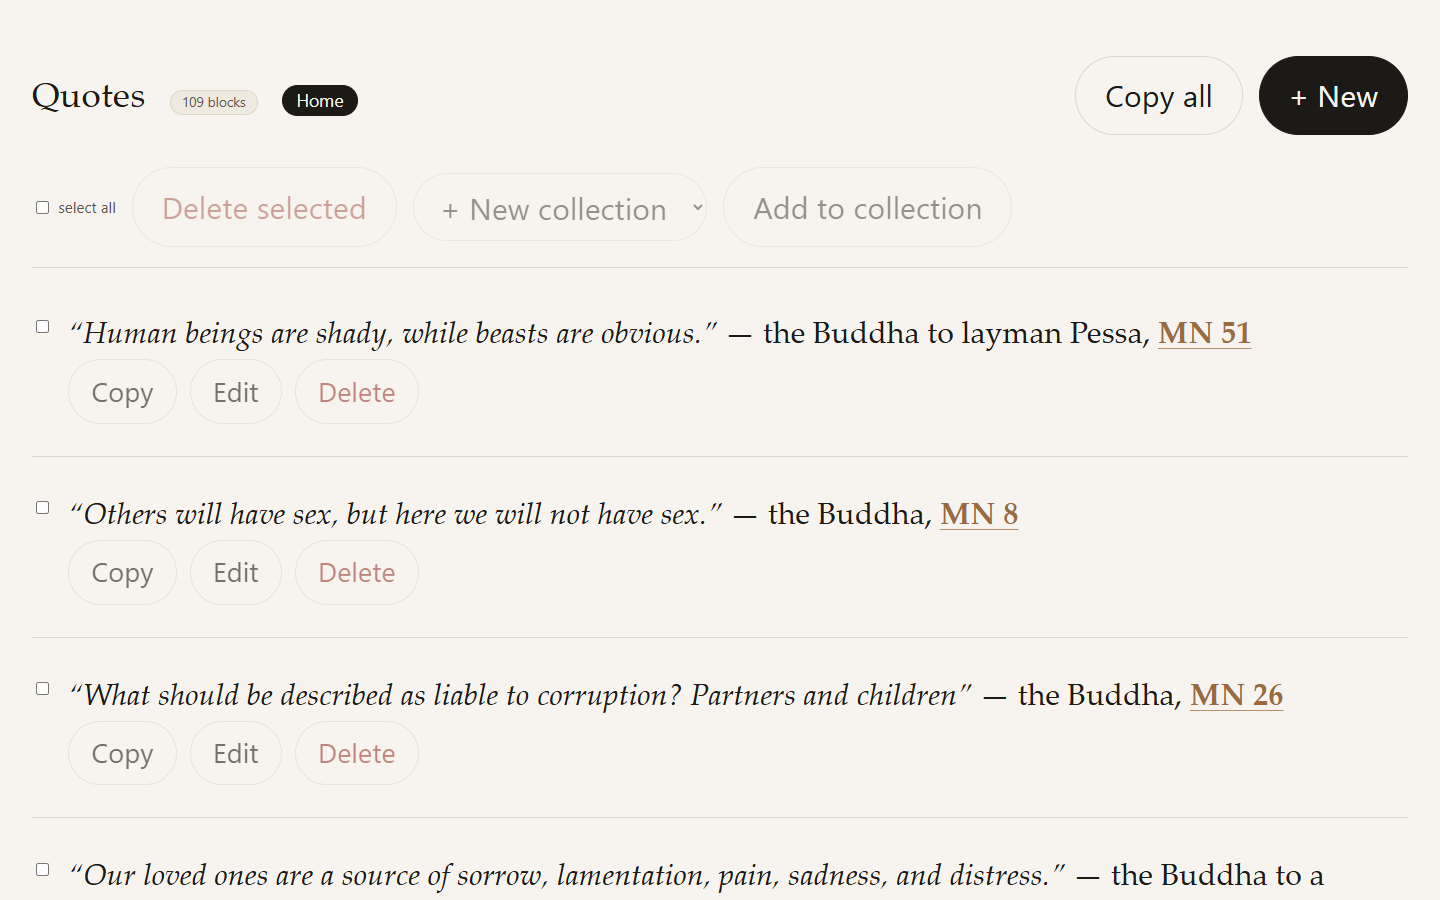
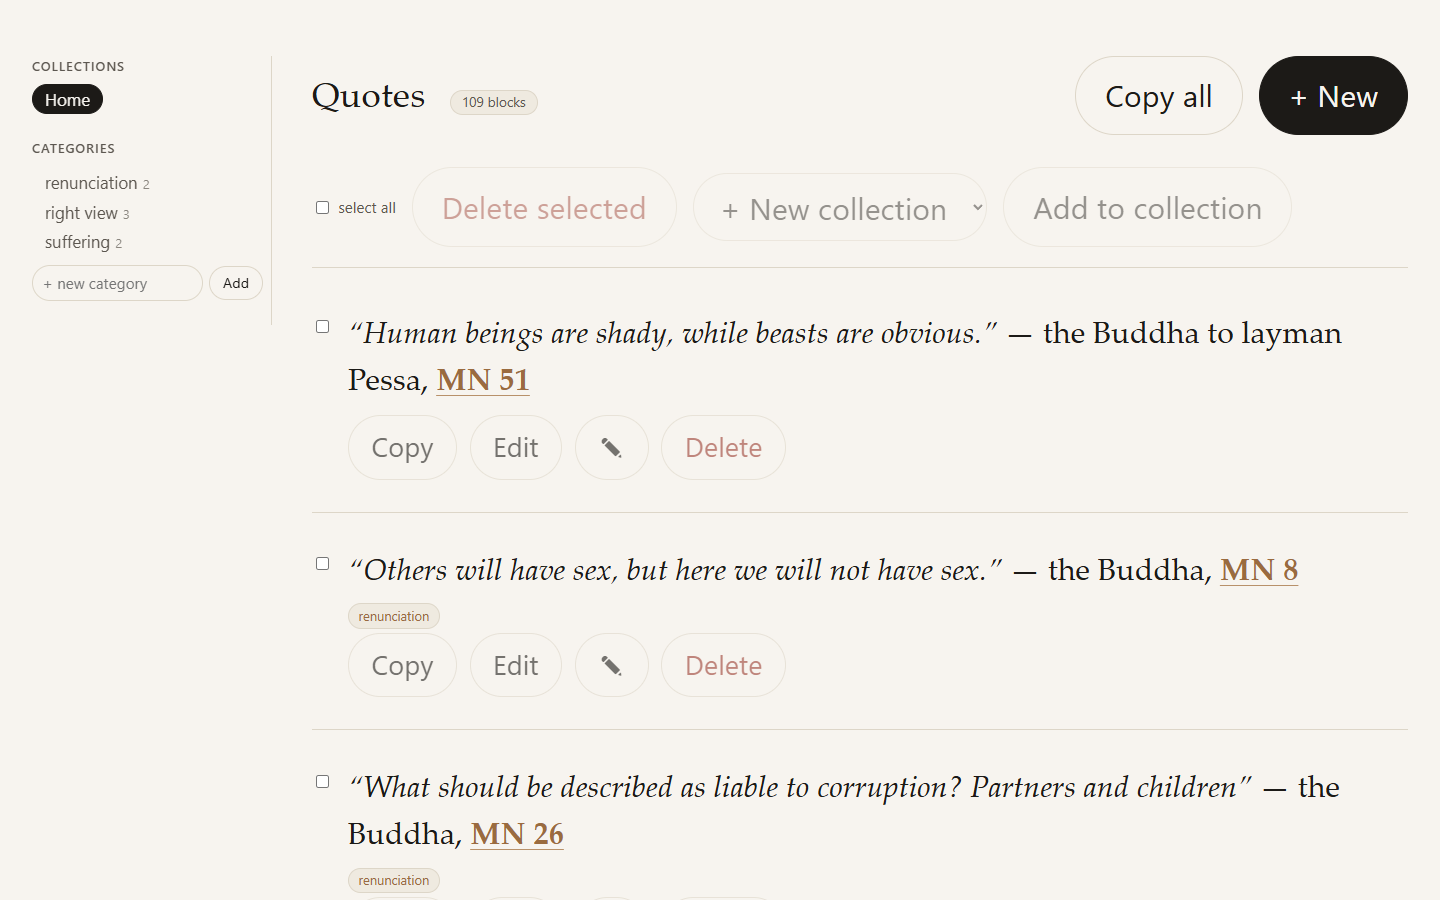
docs: readme + changelog for v0.5.0
Refresh docs/home.png (sidebar + category chips) and the coverage badge,
and add the [0.5.0] changelog entry for categories + the sidebar layout.

diff --git a/changelog.md b/changelog.md
@@ -4,6 +4,33 @@ All notable changes to this project are documented here. The format is based on
 [Keep a Changelog](https://keepachangelog.com/en/1.1.0/), and this project
 adheres to [Semantic Versioning](https://semver.org/spec/v2.0.0.html).
 
+## [0.5.0] - 2026-07-01
+
+### Added
+- **Categories.** Named, reusable tags for quotes — managed independently of
+  collections. Create, rename, and delete them from the sidebar; names are
+  unique (case-insensitive). Backed by the `categories` and `category_items`
+  tables and `store.ListCategories`, `CreateCategory`, `GetCategory`,
+  `RenameCategory`, `DeleteCategory`, `CategoryQuotes`, `SetQuoteCategories`,
+  and `QuoteCategoryMap`.
+- **Per-quote categories.** Each quote block shows its categories as chips and
+  an inline ✎ editor (`GET /quotes/{id}/categories/edit`) that toggles any
+  combination of categories and can create a new one inline; saving commits the
+  full set via `POST /quotes/{id}/categories` (`store.SetQuoteCategories`).
+- **Category view.** `GET /categories/{ctid}` filters the list to a category's
+  quotes (in home order) with `GET /categories/{ctid}/export.txt` for Copy all —
+  read-only, mirroring the collection view.
+- **Sidebar layout.** The home page is now a sticky left sidebar (Collections +
+  Categories, each with counts and inline manage affordances) beside the quote
+  list. Deleting a category untaggs its quotes; deleting a quote clears its tags.
+
+### Changed
+- `store.Delete`/`DeleteMany` now cascade `category_items` alongside
+  `collection_items` in the same transaction.
+- A fresh database is seeded with three example categories (`suffering`,
+  `renunciation`, `right view`) tagging the shortest quotes, so the sidebar and
+  chip rows are non-empty out of the box.
+
 ## [0.4.0] - 2026-06-30
 
 ### Added
@@ -110,6 +137,7 @@ adheres to [Semantic Versioning](https://semver.org/spec/v2.0.0.html).
 - Unattributed quotes (including all header-cited ones) are normalized to
   "the Buddha".
 
+[0.5.0]: https://github.com/lavantien/quotes-manager/releases/tag/v0.5.0
 [0.4.0]: https://github.com/lavantien/quotes-manager/releases/tag/v0.4.0
 [0.3.0]: https://github.com/lavantien/quotes-manager/releases/tag/v0.3.0
 [0.2.0]: https://github.com/lavantien/quotes-manager/releases/tag/v0.2.0

diff --git a/readme.md b/readme.md
@@ -1,7 +1,7 @@
 # quotes-manager
 
 <!-- coverage:START -->
-![coverage](https://img.shields.io/badge/coverage-16.6%25-red)
+![coverage](https://img.shields.io/badge/coverage-15.3%25-red)
 <!-- coverage:END -->
 
 ![quotes-manager home page](docs/home.png)